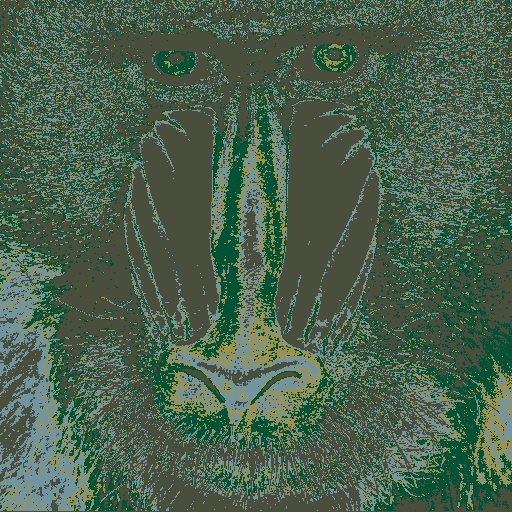
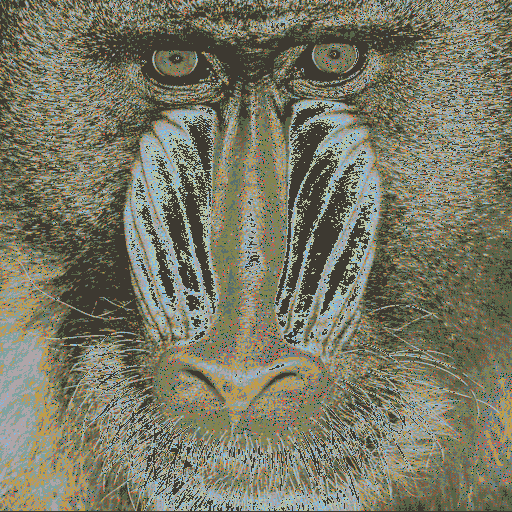
find median cut almost fin

diff --git a/median_cut.py b/median_cut.py
@@ -97,7 +97,12 @@ if __name__ == '__main__':
     for first_dim, arr in enumerate(next_img):
            result[first_dim] = find_new_color(arr, mediancut_list )
 
-    resultImage = np.array(result)
+    result2 = np.eye(img.shape[0] * img.shape[1], img.shape[2])
+    for first, arr2 in enumerate(result):
+        for second, arr1 in enumerate(arr2):
+                result2[first][second]= int(round(arr1))
+
+    resultImage = np.array(result2)
     resultImage[np.where(resultImage==np.max(resultImage))] = 0
     resultImage[np.where(resultImage==np.min(resultImage))] = 0
     print("resultImage.shape ",resultImage.shape )
